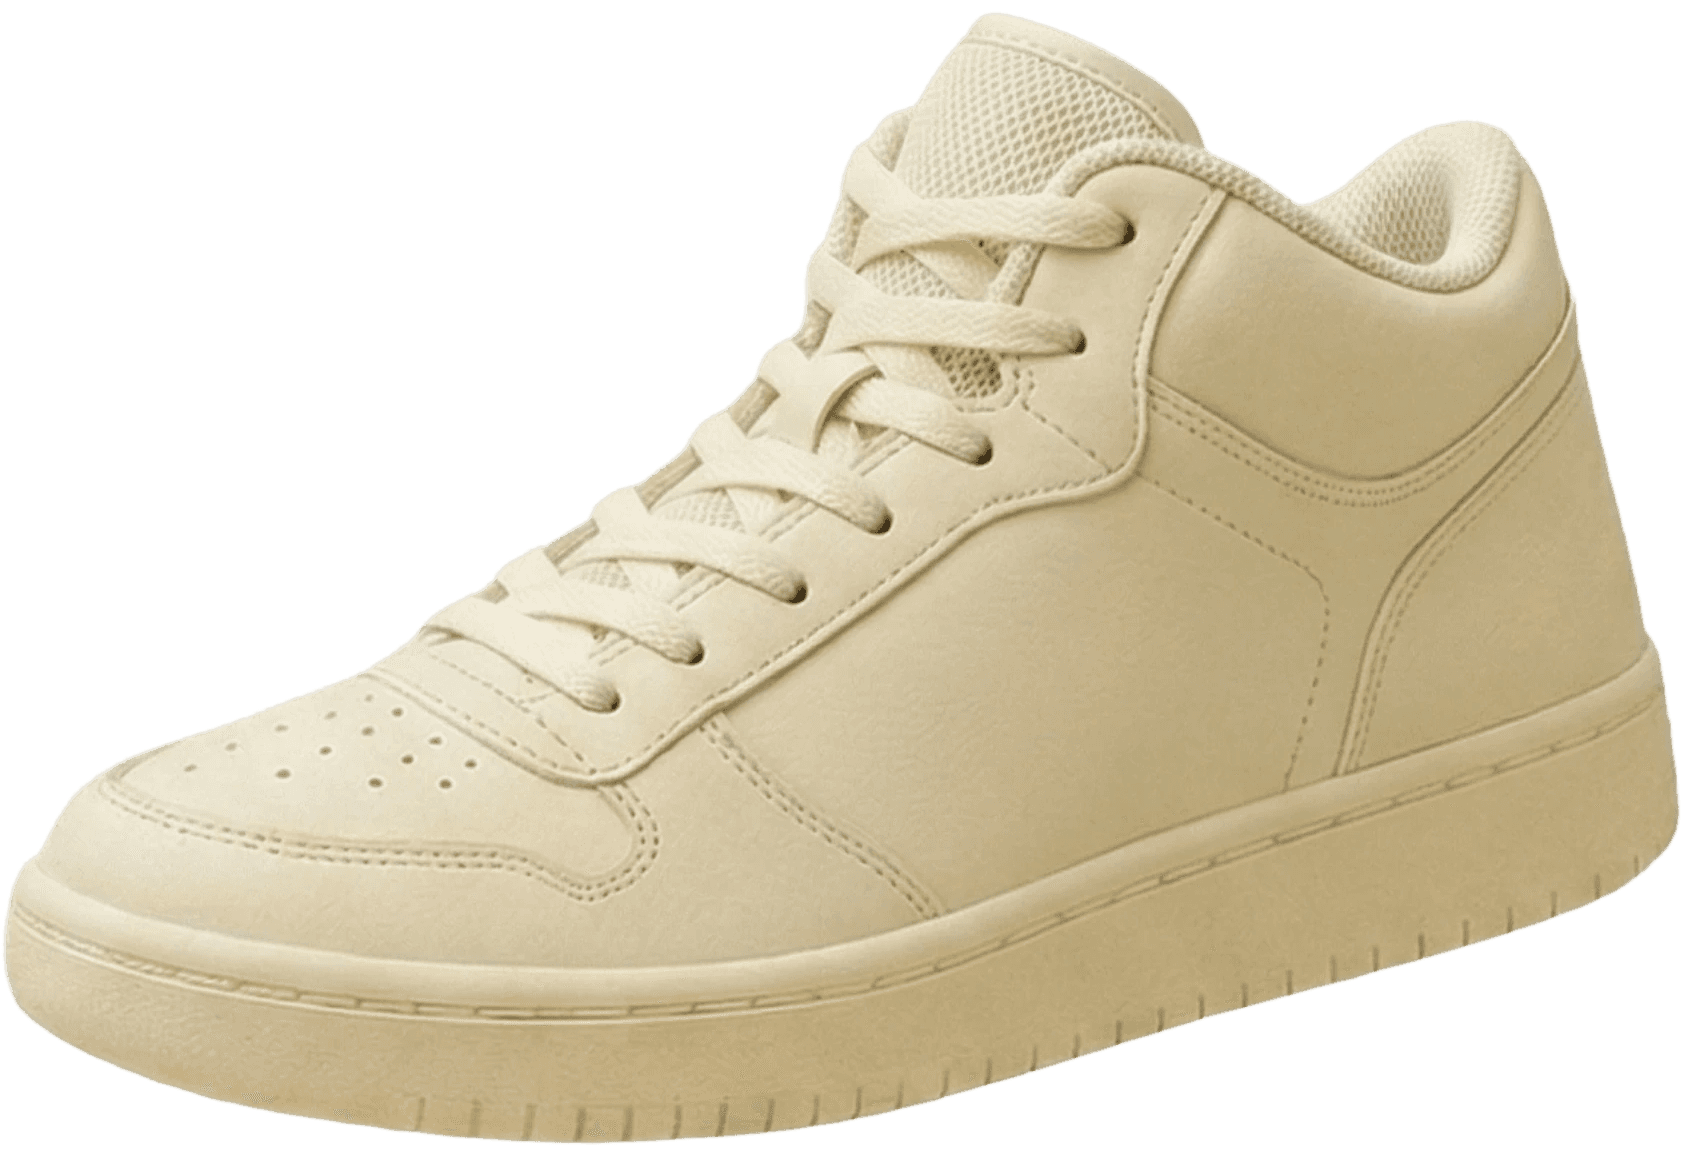
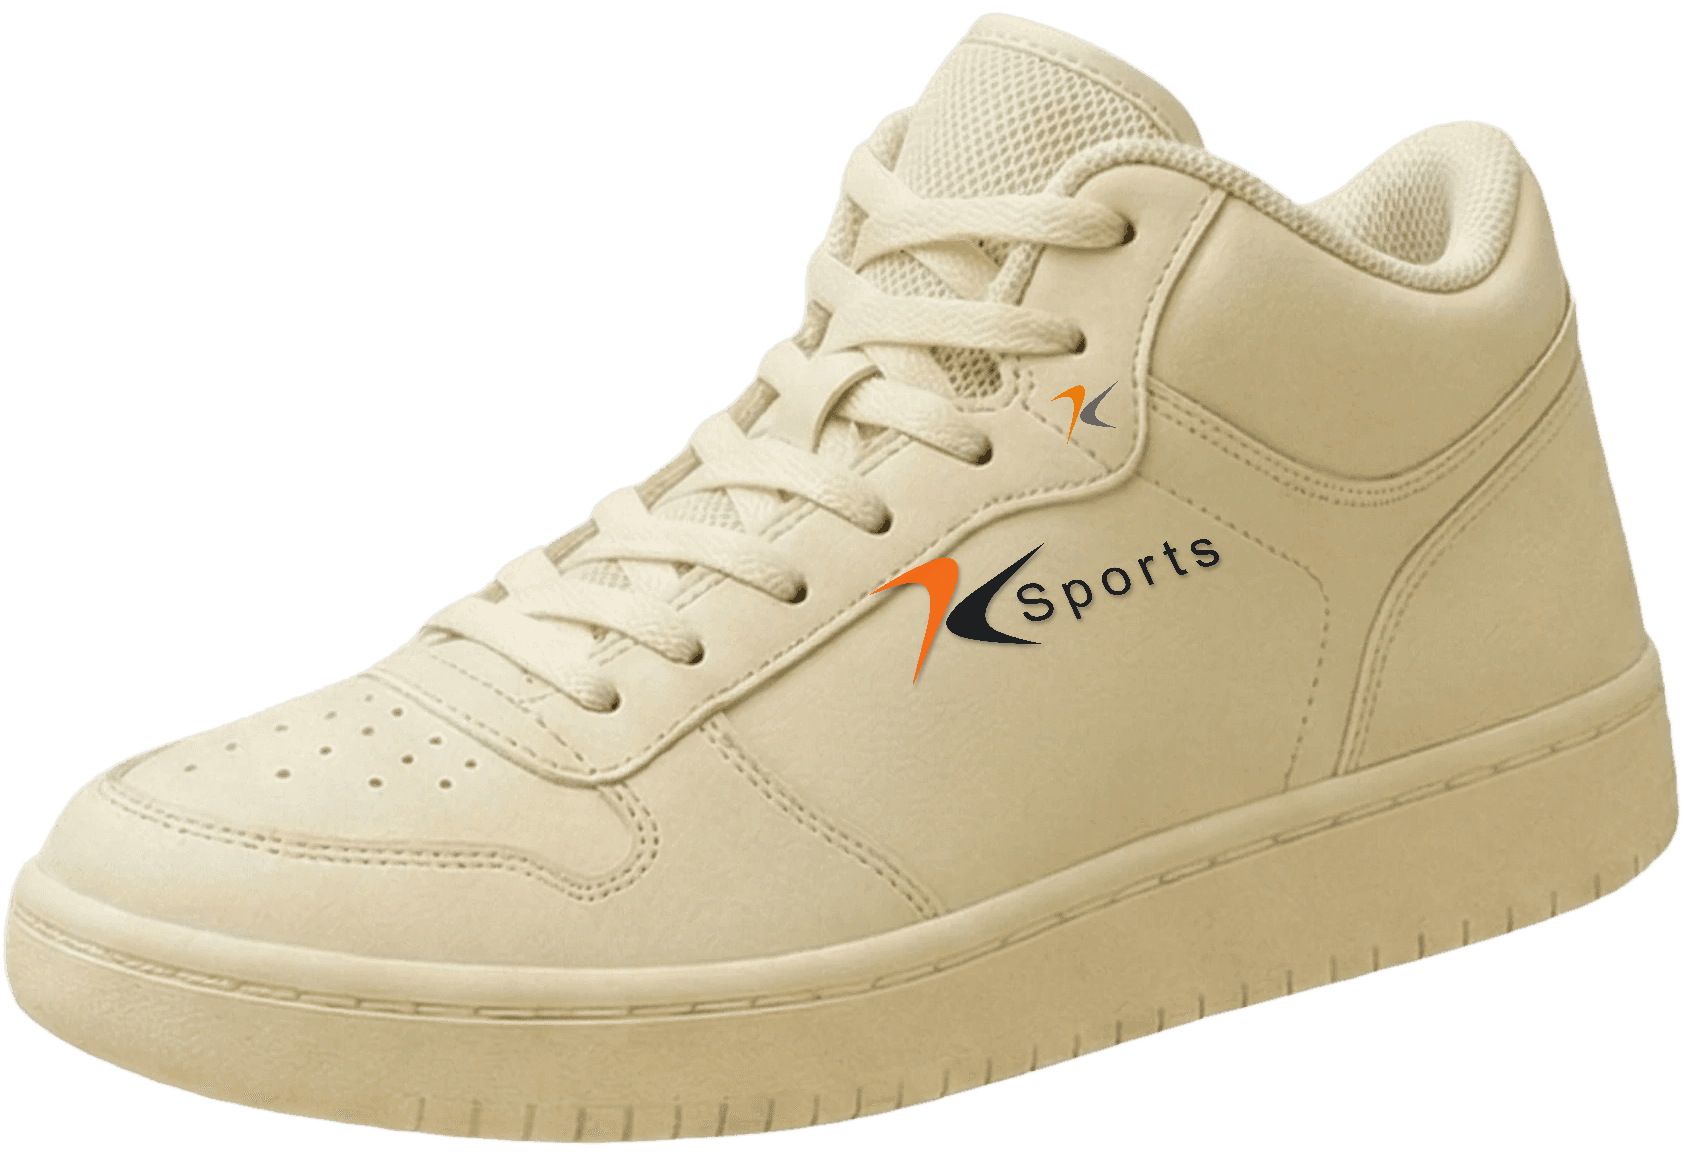
Add official KSports branding on homepage hero sneaker and update background wordmark to KSPORTS

Changed region(s): [[0.5249, 0.4688, 0.7411, 0.5938], [0.6176, 0.3125, 0.6793, 0.375]]

diff --git a/src/components/home/TempoHeroSection.tsx b/src/components/home/TempoHeroSection.tsx
@@ -43,12 +43,12 @@ interface CategoryVariant {
 const variants: Record<CategoryVariantKey, CategoryVariant> = {
   shoes: {
     id: 'shoes',
-    name: 'Air Flexs',
+    name: 'KSports Classic Pro',
     categoryLabel: 'Shoes',
-    badgeTag: 'New',
-    badgeTitle: 'Limited edition shoes',
-    headline: 'AIR FLEXS',
-    subheadline: 'A comfort elegance that your foot needs.',
+    badgeTag: 'Official',
+    badgeTitle: 'Official KSports Athletic Footwear',
+    headline: 'KSPORTS',
+    subheadline: 'Engineered with signature athletic precision, ergonomic leather & shock-absorbing midsole.',
     dotColor: '#e3cfb3',
     badgeBg: '#f7ede1',
     badgeBorder: '#e3cfb3',
@@ -57,7 +57,7 @@ const variants: Record<CategoryVariantKey, CategoryVariant> = {
     glowColor: 'rgba(227, 207, 179, 0.55)',
     bgGradient: 'from-[#fbf8f4] via-[#f7f2ea] to-[#ffffff]',
     image: '/hero-shoes/sneako-1.png',
-    imageAlt: 'KSports Air Flexs Athletic Footwear',
+    imageAlt: 'Official KSports Classic Pro Athletic Footwear',
     pedestal: {
       top: 'linear-gradient(135deg, #f0e6d6 0%, #e3cfb3 100%)',
       left: 'linear-gradient(180deg, #d4baa0 0%, #b8997c 100%)',

diff --git a/src/app/(public)/page.tsx b/src/app/(public)/page.tsx
@@ -66,9 +66,9 @@ export default async function HomePage() {
     <div className="flex flex-col">
       {/* SECTION 2: SNEAKO-STYLE 3D HERO (MATCHING SNEAKO FRAMER EFFECTS & ANIMATION) */}
       <TempoHeroSection
-        headline="Air Flexs"
-        subheadline="A comfort elegance that your foot needs."
-        primaryCtaText="Buy now"
+        headline="KSPORTS"
+        subheadline="Engineered with signature athletic precision, ergonomic leather & shock-absorbing midsole."
+        primaryCtaText="Explore Products"
         primaryCtaLink="/products"
         secondaryCtaText="Business Enquiry"
         secondaryCtaLink="/contact"
